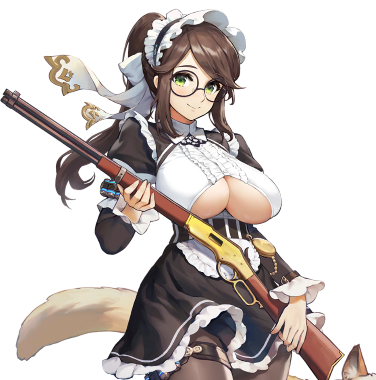
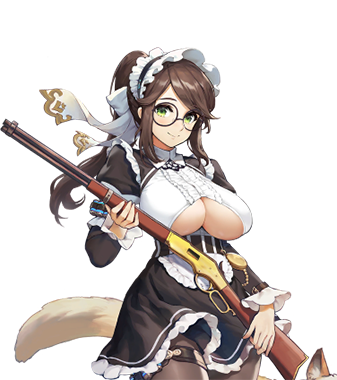
see README 2023.2.3

diff --git a/README.md b/README.md
@@ -75,3 +75,7 @@ Last Origin mod for Stellaris\
 新增了X槽导弹，平衡待定\
 新增了可用于LO种族的基因点和可添加的特质\
 新增了LO传统，属性待定\
+2023.2.2\
+休息\
+2023.2.3\
+给抽卡系统整理立绘\
